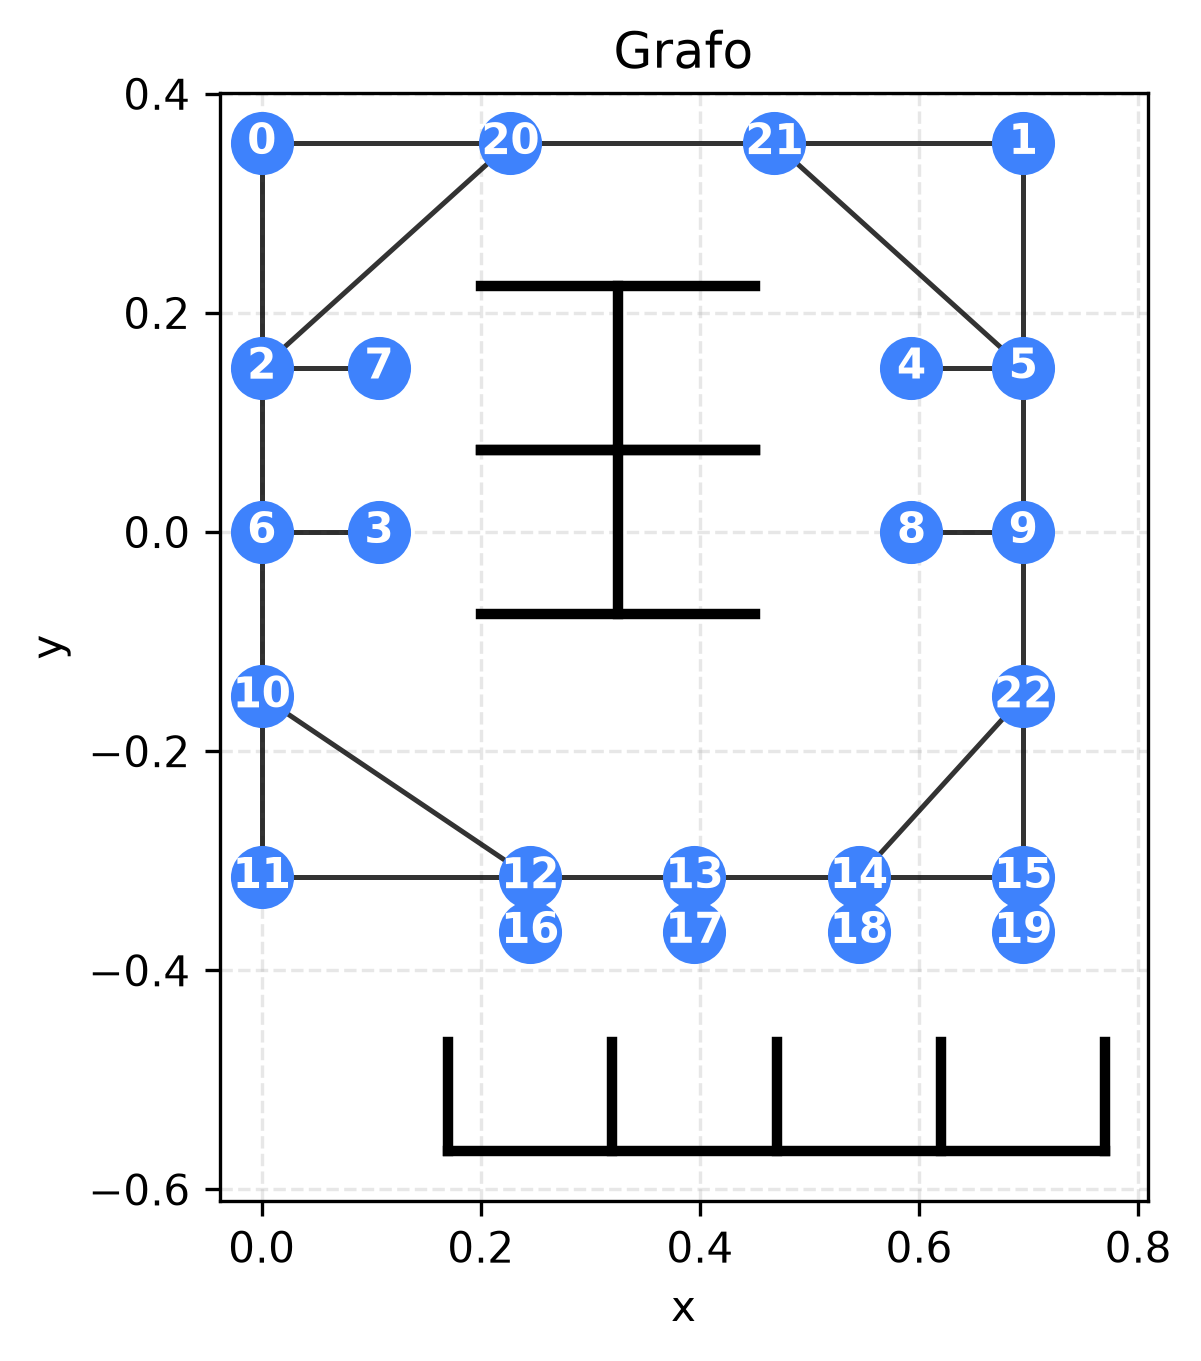
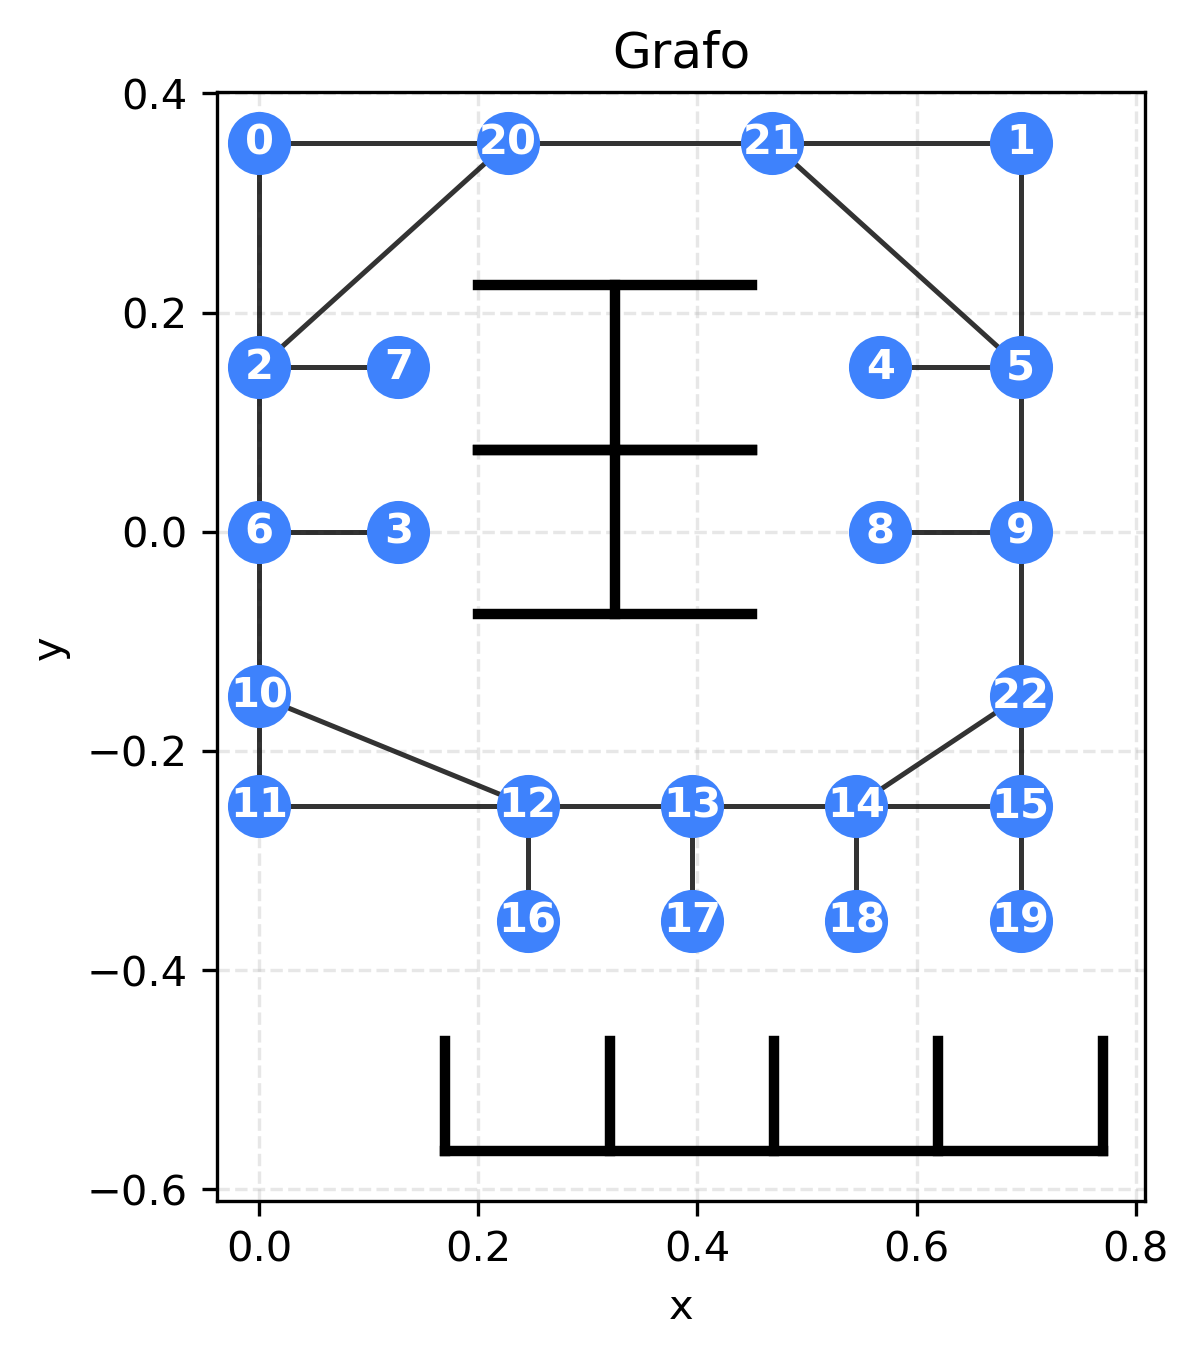
atualizei os scripts de python para usarem as novas coordenadas do grafo

diff --git a/Planeamento do grafo/graph_initial.py b/Planeamento do grafo/graph_initial.py
@@ -30,23 +30,23 @@ FLOOR_POINTS: Sequence[Tuple[int, Tuple[float, float]]] = (
     (4, (0.0, 0.355)),
     (5, (0.695, 0.355)),
     (6, (0.0, 0.150)),
-    (7, (0.107, 0.0)),
-    (8, (0.593, 0.150)),
+    (7, (0.127, 0.0)),
+    (8, (0.567, 0.150)),
     (9, (0.695, 0.150)),
     (13, (0.0, 0.0)),
-    (14, (0.107, 0.150)),
-    (15, (0.593, 0.0)),
+    (14, (0.127, 0.150)),
+    (15, (0.567, 0.0)),
     (16, (0.695, 0.0)),
     (20, (0.0, -0.150)),
-    (22, (0.0, -0.315)),
-    (23, (0.245, -0.315)),
-    (24, (0.395, -0.315)),
-    (25, (0.545, -0.315)),
-    (26, (0.695, -0.315)),
-    (36, (0.245, -0.365)), # Pontos artificias 36-39
-    (37, (0.395, -0.365)),
-    (38, (0.545, -0.365)),
-    (39, (0.695, -0.365)),
+    (22, (0.0, -0.250)),
+    (23, (0.245, -0.250)),
+    (24, (0.395, -0.250)),
+    (25, (0.545, -0.250)),
+    (26, (0.695, -0.250)),
+    (36, (0.245, -0.355)), # Pontos artificias 36-39
+    (37, (0.395, -0.355)),
+    (38, (0.545, -0.355)),
+    (39, (0.695, -0.355)),
     (30, (0.227, 0.355)),
     (31, (0.468, 0.355)),
     (35, (0.695, -0.150)),
@@ -346,7 +346,7 @@ if __name__ == '__main__':
     edges_example = connect_nearby_points(coords_example)
     ax = draw_graph(edges_example, coords_example)
     plt.title('Grafo')
-    plt.savefig('C:/Users/salom/OneDrive/MEF/1.º ano/2.º semestre/Robótica/Projeto 2 - carrinho/Código/Planeamento do grafo/grafo.png', dpi=300, bbox_inches='tight')
+    plt.savefig('grafo.png', dpi=300, bbox_inches='tight')
     plt.show()
 
     # Opção 2: Exportar em formato Python

diff --git a/Planeamento do grafo/graph_with_direction.py b/Planeamento do grafo/graph_with_direction.py
@@ -11,11 +11,11 @@ THETA_THRESH = 1e-3
 INF = float('inf')
 
 PHYSICAL_COORDS: Dict[int, Tuple[float, float]] = {
-    4:(0.0,0.355), 5:(0.695,0.355), 6:(0.0,0.15), 7:(0.107,0.0),
-    8:(0.593,0.15), 9:(0.695,0.15), 13:(0.0,0.0), 14:(0.107,0.15),
-    15:(0.593,0.0), 16:(0.695,0.0), 20:(0.0,-0.15), 22:(0.0,-0.315),
-    23:(0.245,-0.315), 24:(0.395,-0.315), 25:(0.545,-0.315), 26:(0.695,-0.315),
-    36:(0.245,-0.365), 37:(0.395,-0.365), 38:(0.545,-0.365), 39:(0.695,-0.365),
+    4:(0.0,0.355), 5:(0.695,0.355), 6:(0.0,0.15), 7:(0.127,0.0),
+    8:(0.567,0.15), 9:(0.695,0.15), 13:(0.0,0.0), 14:(0.127,0.15),
+    15:(0.567,0.0), 16:(0.695,0.0), 20:(0.0,-0.15), 22:(0.0,-0.250),
+    23:(0.245,-0.250), 24:(0.395,-0.250), 25:(0.545,-0.250), 26:(0.695,-0.250),
+    36:(0.245,-0.355), 37:(0.395,-0.355), 38:(0.545,-0.355), 39:(0.695,-0.355),
     30:(0.227,0.355), 31:(0.468,0.355), 35:(0.695,-0.15),
 }
 
@@ -218,5 +218,5 @@ if __name__ == '__main__':
     draw_machine_pair(ax, 0.2, 0.45, 0.075, 0.225)
     draw_machine_pair(ax, 0.2, 0.45, -0.075, 0.075)
     plt.tight_layout()
-    plt.savefig('C:/Users/salom/OneDrive/MEF/1.º ano/2.º semestre/Robótica/Projeto 2 - carrinho/Código/Planeamento do grafo/grafografo_rotações.png', dpi=150)
+    plt.savefig('grafo_rotações.png', dpi=150)
     plt.show()
